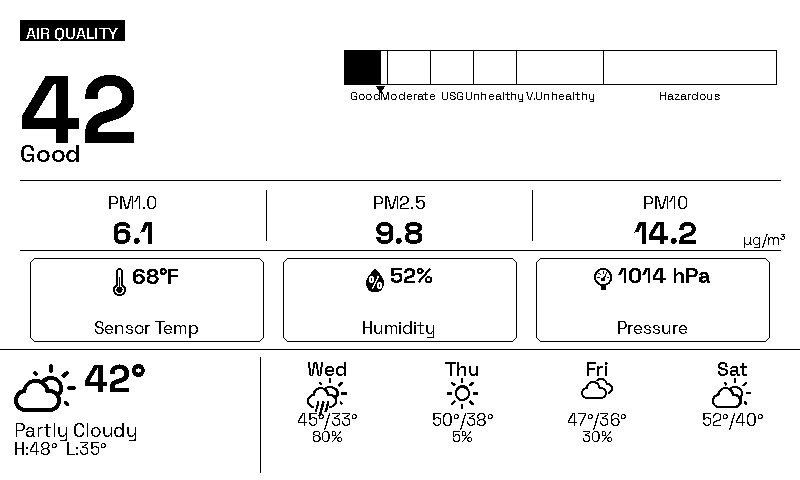
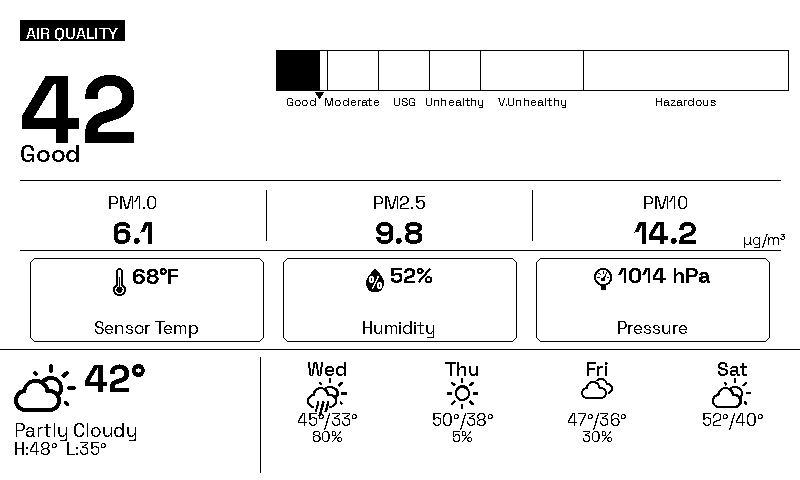
Widen and tighten AQI scale bar to fix crowded zone labels
Reduce left-column split 40%→33% and rx_pad 24→12px, growing bar width
from 432→524px so each equal-width zone (Good/Moderate/USG/Unhealthy)
gets ~52px instead of ~43px. Increase bar height 34→40px. Zone labels
at 12pt now have clear separation.

https://claude.ai/code/session_01KMrBgUtdj7WNu4VEKSrCkw

Changed region(s): [[0.3438, 0.0938, 0.75, 0.2188], [0.8125, 0.1875, 0.9062, 0.2188]]

diff --git a/src/render/components/air_quality_panel.py b/src/render/components/air_quality_panel.py
@@ -127,7 +127,7 @@ def _draw_aqi_hero(
     """Left: large AQI number + category label.  Right: 6-zone scale bar."""
     fg = style.fg
 
-    split = int(W * 0.40)   # left column width
+    split = int(W * 0.33)   # left column width
     pad = 20
 
     # ── Left: AQI number, category, section label ────────────────────────
@@ -169,10 +169,10 @@ def _draw_aqi_hero(
 
     # ── Right: 6-zone scale bar ──────────────────────────────────────────
     rx0 = x0 + split
-    rx_pad = 24
+    rx_pad = 12
     bar_x = rx0 + rx_pad
     bar_w = W - split - rx_pad * 2
-    bar_h = 34
+    bar_h = 40
     # Centre bar vertically in top ~60% of zone
     bar_y = y0 + int(H * 0.28)
 
